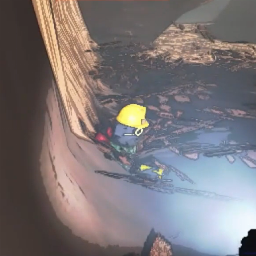
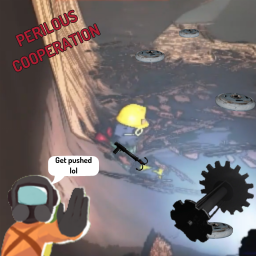
Start of Extra v2.0.0

diff --git a/Limbus Company Extra/CHANGELOG.md b/Limbus Company Extra/CHANGELOG.md
@@ -1,3 +1,6 @@
+## 2.0.0
+> Massive mod update and overhaul (since it's been a bit)
+
 ## v1.1.2
 > Mod updates and removed some troublesome mods
 
